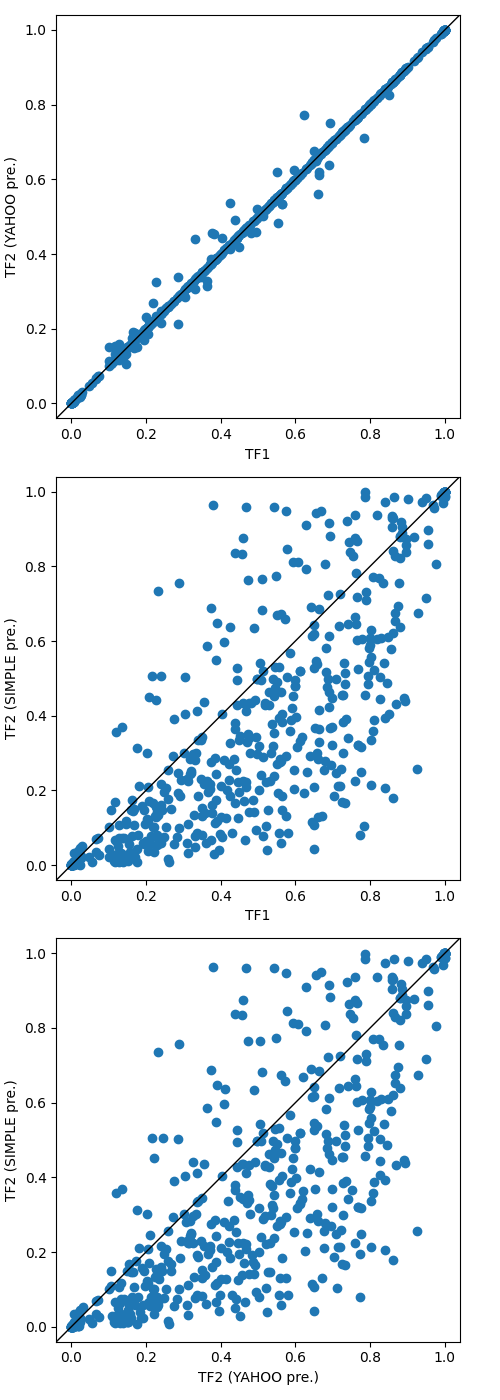
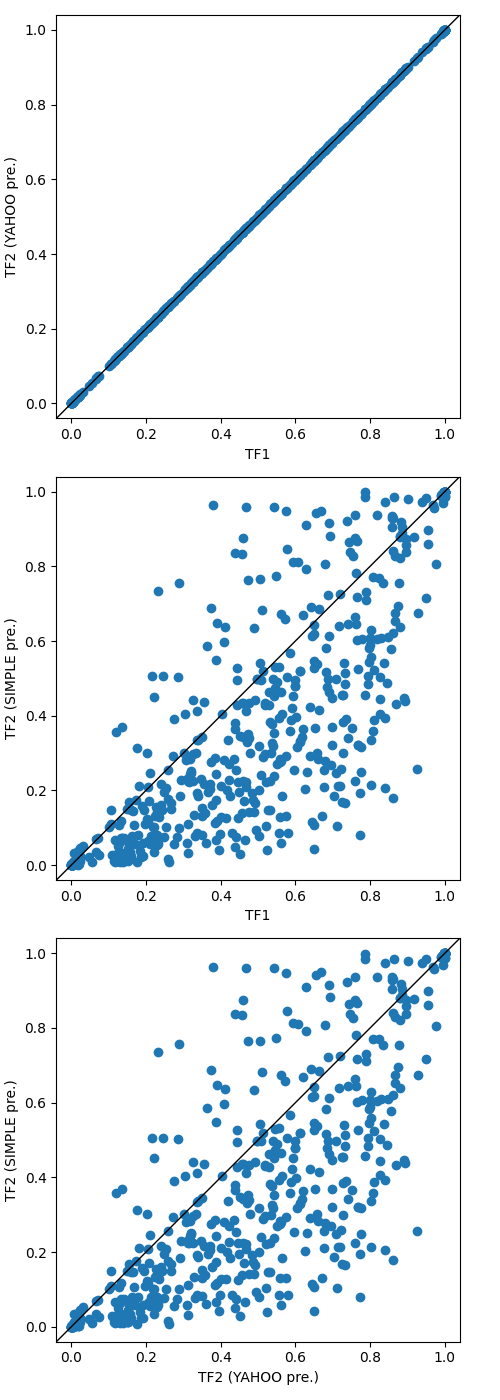
Re-generate old scores (not in this repo) with the same hardware config and redo comparison

diff --git a/README.md b/README.md
@@ -120,10 +120,8 @@ The following figure shows the result:
 ![NSFW probabilities comparison](docs/nsfw_probabilities_comparison.png)
 
 The current TensorFlow 2 implementation with `YAHOO` preprocessing
-can reproduce the well tested TensorFlow 1 probabilities very accurately.
-- 504 out of 521 images (~97%) have absolute differences < 0.05.
-- Only 3 images have absolute differences > 0.1.
+can totally reproduce the well-tested TensorFlow 1 result, 
+with small floating point errors only.
 
-The discrepancies are probably due to floating point errors etc.
-
-With `SIMPLE` preprocessing, the model tends to give lower probabilities.
+With `SIMPLE` preprocessing the results are different, where the model tends 
+to give lower probabilities.
